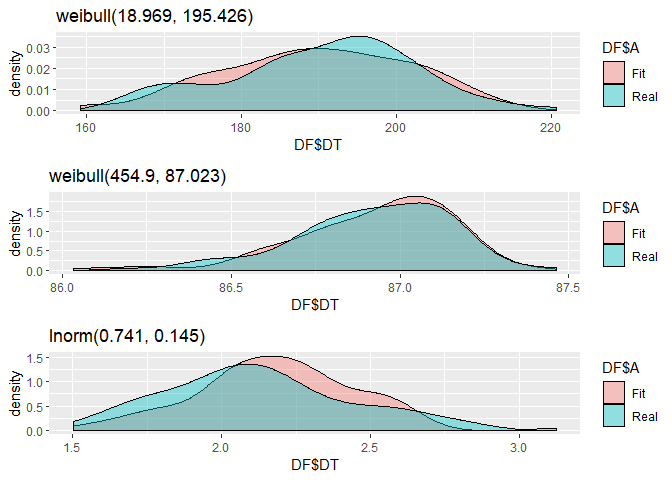
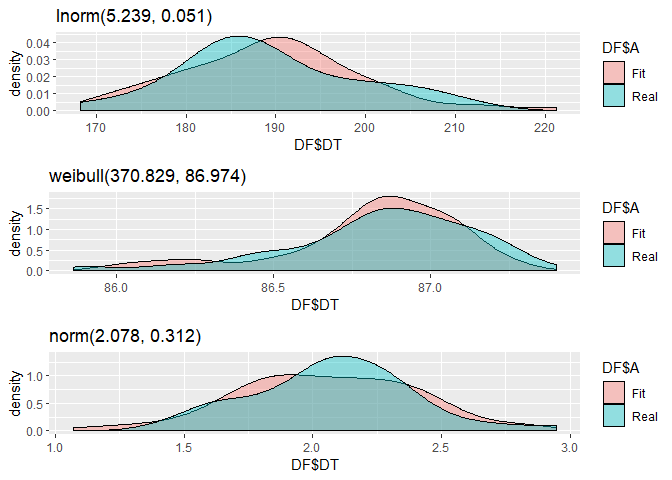
Read Me seed

diff --git a/README.md b/README.md
@@ -1,58 +1,71 @@
 
 <!-- README.md is generated from README.Rmd. Please edit that file -->
-
-# FitUltD
+FitUltD
+=======
 
 <!-- badges: start -->
-
 <!-- badges: end -->
+The goal of FitUltD is to fit data that can't be fitted with ordinary density functions
 
-The goal of FitUltD is to fit data that can’t be fitted with ordinary
-density functions
+Installation
+------------
 
-## Installation
+You can install the released version of FitUltD from [CRAN](https://CRAN.R-project.org) with:
 
-You can install the released version of FitUltD from
-[CRAN](https://CRAN.R-project.org) with:
+install.packages("FitUltD")
 
-install.packages(“FitUltD”)
+Example
+-------
 
-## Example
-
-This is a basic example which shows you how to fit a multimodal random
-variable:
+This is a basic example which shows you how to fit a multimodal random variable:
 
 ``` r
 library(FitUltD)
 #> Loading required package: mclust
 #> Package 'mclust' version 5.4.5
 #> Type 'citation("mclust")' for citing this R package in publications.
-#random Variable
-RV<-c(rnorm(73,189,12),rweibull(82,401,87),rgamma(90,40,19))
-set.seed(31109)
-FIT1<-FDistUlt(RV, plot=TRUE, subplot = TRUE)
+#Random Variable
+RV <- c(rnorm(73,189,12), rweibull(82,401,87), rgamma(90,40,19))
+set.seed(311093)
+FIT1 <- FDistUlt(RV, plot = TRUE, subplot = TRUE)
+#> Error in computing default starting values.
+#> Error in computing default starting values.
+#> Error in computing default starting values.
+#> Error in computing default starting values.
+#> Error in computing default starting values.
+#> Error in computing default starting values.
+#> Error in computing default starting values.
+#> Error in computing default starting values.
+#> Error in computing default starting values.
+#> Error in computing default starting values.
+#> Error in computing default starting values.
+#> Error in computing default starting values.
 ```
 
-What is special about using `README.Rmd` instead of just `README.md`?
-You can include R chunks like so:
+One of the available options is to show the distribution functions that passed the Anderson Darling and Kolmogorov Smirnov tests, as well as their p-value and the proportion of the total distribution.
 
 ``` r
 FIT1[[3]]
-#>                  Distribution Dist_Prop    Dist    AD_p.v    KS_p.v
-#> AD8  weibull(18.969, 195.426) 0.2979592 weibull 0.8569332 0.9557278
-#> AD81   weibull(454.9, 87.023) 0.3346939 weibull 0.9415304 0.9616317
-#> AD6       lnorm(0.741, 0.145) 0.3673469   lnorm 0.9540176 0.8587172
-#>        estimate1   estimate2 estimateLL1 estimateLL2 method     PV_S
-#> AD8   18.9686456 195.4260896           0           1    mge 1.812661
-#> AD81 454.8996478  87.0229602           0           1    mge 1.903162
-#> AD6    0.7408106   0.1446825           0           1    mge 1.812735
+#>                  Distribution Dist_Prop    Dist    AD_p.v    KS_p.v  estimate1
+#> AD6       lnorm(5.239, 0.051) 0.2979592   lnorm 0.5216458 0.7939035   5.238993
+#> AD8  weibull(370.829, 86.974) 0.3346939 weibull 0.9858631 0.9939599 370.828837
+#> AD10       norm(2.078, 0.312) 0.3673469    norm 0.8530269 0.8549550   2.077990
+#>        estimate2 estimateLL1 estimateLL2 method     PV_S Obs    Lim_inf
+#> AD6   0.05137778           0           1    mge 1.315549  73 168.204371
+#> AD8  86.97421201           0           1    mge 1.979823  82  85.863558
+#> AD10  0.31192627           0           1    mle 1.707982  90   1.390518
+#>         Lim_sup
+#> AD6  213.207681
+#> AD8   87.399901
+#> AD10   2.946422
 ```
 
-You’ll still need to render `README.Rmd` regularly, to keep `README.md`
-up-to-date.
+By setting `plot` and `subplot` arguments as `TRUE`, is possible to visualizate each distribution which forms the most accurrate model.
 
-You can also embed plots, for example:
+Real data distribution versus fitted model.
 
 <img src="man/figures/README-pressure-1.png" width="100%" />
+
+Distributions that forms the fitted model.
 
 <img src="man/figures/README-plots-mult-1.png" width="100%" />
